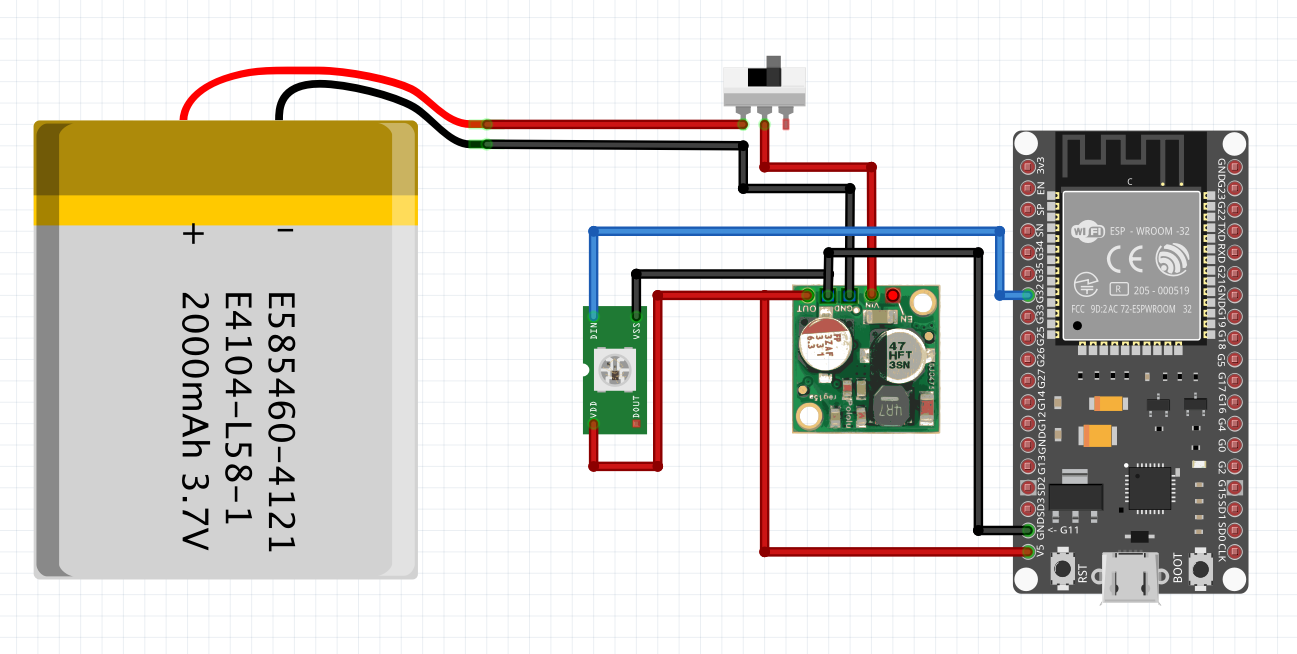
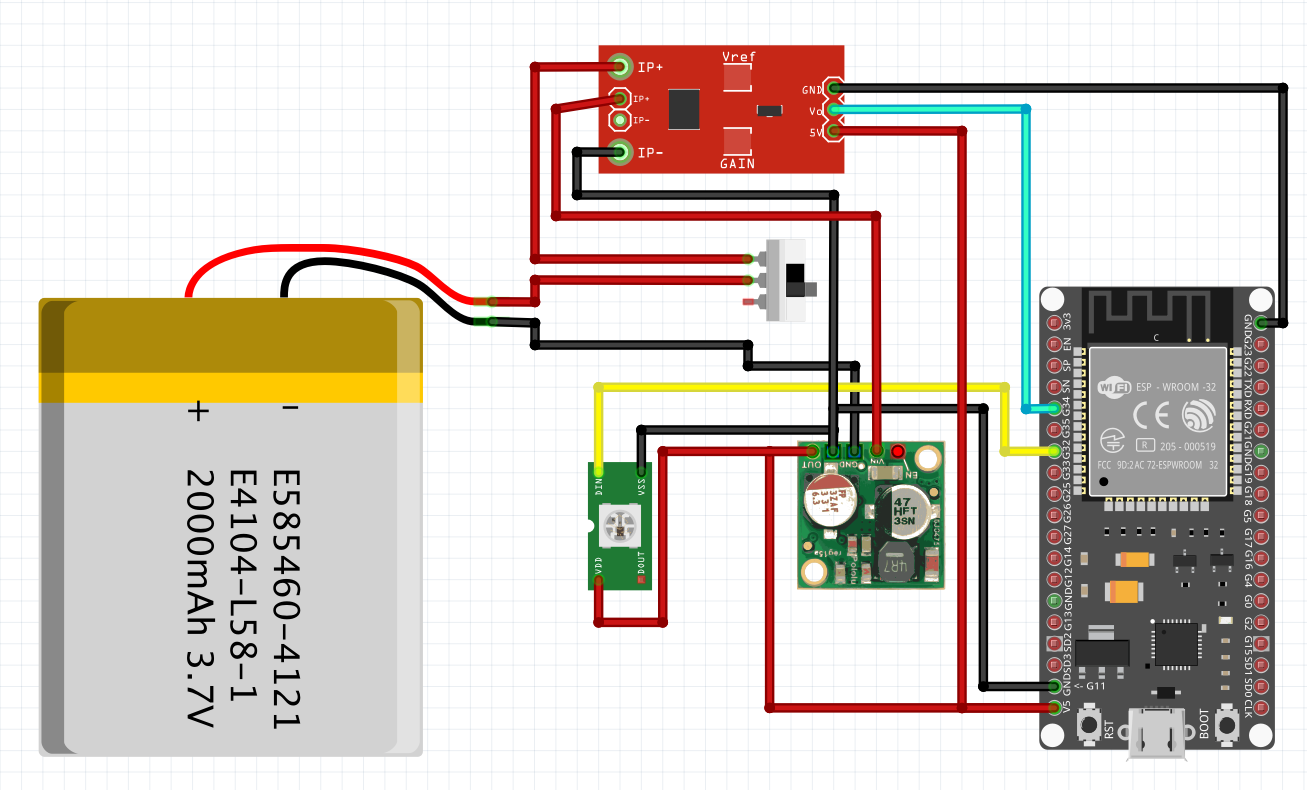
Update README.md

diff --git a/README.md b/README.md
@@ -11,5 +11,14 @@ A UDP server which provides an interface to the NeoPixelBus based on [audio-reac
 - Set `#define NUM_LEDS` to the number of LEDs in your LED strip
 - Set `#define PIXEL_PIN` to the Data Pin on your ESP32
 
+# Hardware
+
+- ESP32
+- ACS712 20A
+- Pololu Stepdown Converter D24V25F5
+- WS281x LED Strip
+- Switch
+- LiPo, min 4A, max 20A
+
 ![diagram](images/fritzing.png)
 
